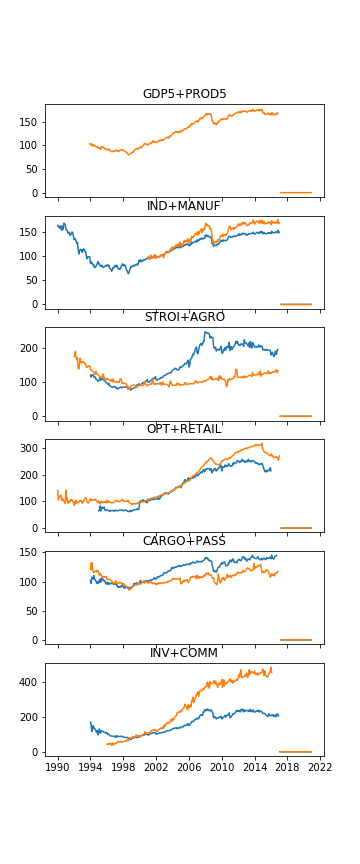
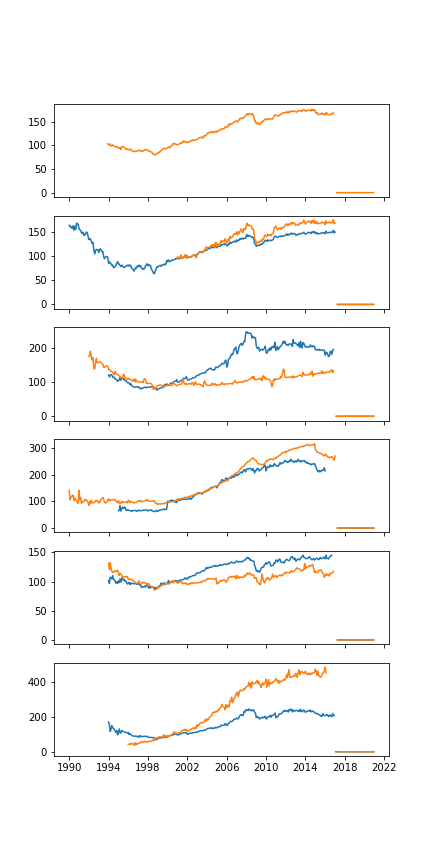
Add files via upload

diff --git a/plot.py b/plot.py
@@ -2,7 +2,7 @@ import pandas as pd
 import matplotlib.pyplot as plt
 
 FILE = "BCD.xls"
-df = pd.read_excel(FILE, skip = 1, header = 1, index_col = 'DATE')
+df = pd.read_excel(FILE, skip=1, header=1, index_col='DATE')
 print(df.head())
 
 doc = """GDP5	PROD5
@@ -14,12 +14,35 @@ INV	COMM"""
 pairs = [x.split("\t") for x in doc.split("\n")]
 
 # 6 subplots, the axes array is 1-d
-f, axarr = plt.subplots(6, sharex=True, figsize = (5, 12))
+f, axarr = plt.subplots(6, sharex=True, figsize=(6, 12))
 
 for i in range(6):
     axarr[i].plot(df[pairs[i]])
     title = "+".join(pairs[i])
-    axarr[i].set_title(title)
-    
+    # axarr[i].set_title(title)
 
 plt.savefig('plot.png')
+
+"""
+
+Easy:
+1. Set vertical space between subplots to 0
+2. No ticks on x axis 
+3. Transparent lower and upper boundary of plot for plots 2-5 
+   (is it possible?)
+4. Legend on each subplot, control its location - upper left corner
+5. Vertical grid
+6. Horizontal grid
+7. Global header for the enire plot
+
+Not that easy:
+8. df.GDP5 is by quarter, still want to put it on first subplot
+9. Suggestions to control figure size. Currently figsize=(6, 12)
+   was trail and error.
+
+"""
+
+# not todo
+# - save df to csv or Excel 
+# - bars for recession
+# - delete zeros
